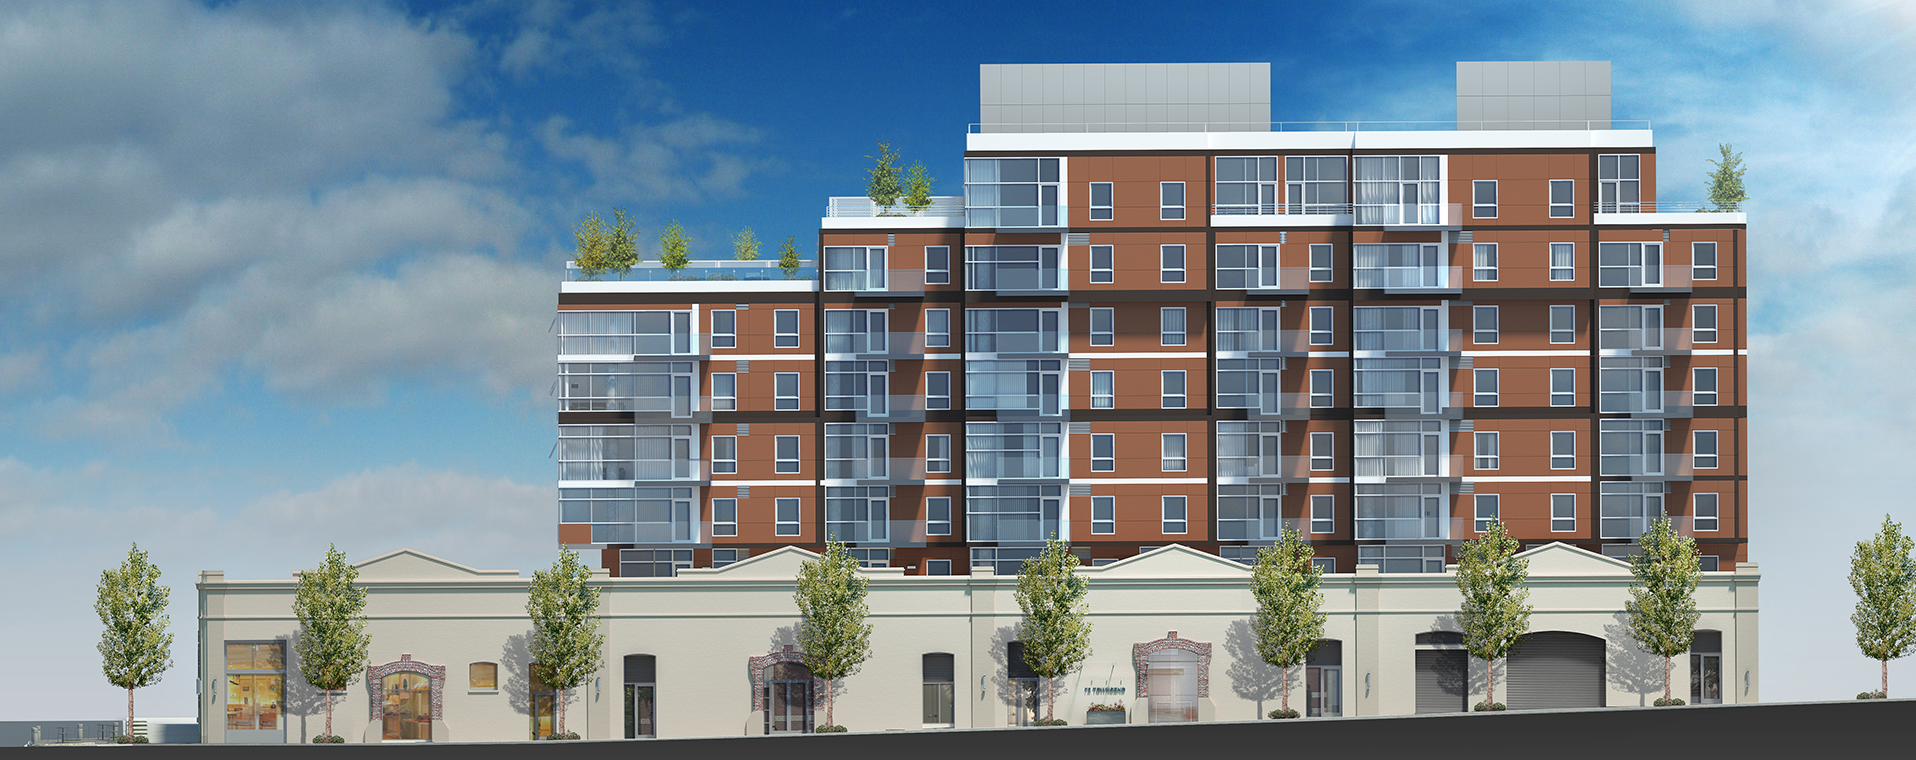
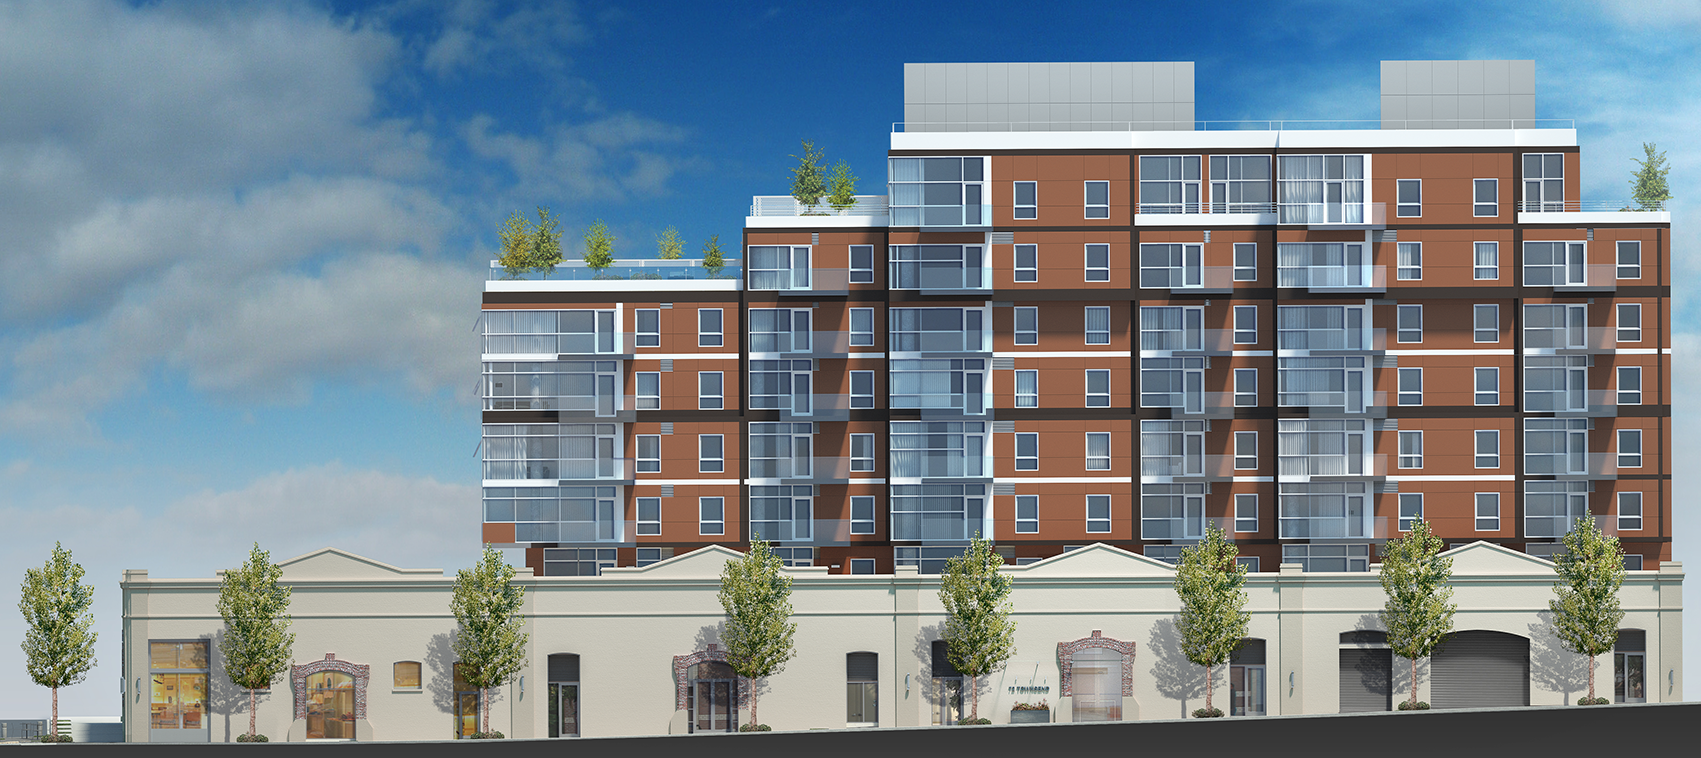
added main building image

diff --git a/app/styles/main.scss b/app/styles/main.scss
@@ -19,13 +19,29 @@ $icon-font-path: "../bower_components/bootstrap-sass-official/assets/fonts/boots
   width: 100%;
 }
 
+/*  Landing Page Styles */
+
+.main-building-image {
+    background: url('../images/72Townsend_EastView.png') no-repeat;
+    -webkit-background-size: contain;
+    -moz-background-size: contain;
+    background-size: contain;
+    -o-background-size: contain;
+    height:3000px;
+}
+
+.landing-wrapper {
+    margin-top:124px;
+    background-color:black;
+}
+
 
 /* End Custom Styles*/
 
 /* Custom Mobile Styles */
 
 /* Extra Small Devices, Phones */
-@media(max-width : 480px) {
+@media (max-width : 480px) {
 
     .navbar-inverse {
       padding: 0px;
@@ -39,19 +55,6 @@ $icon-font-path: "../bower_components/bootstrap-sass-official/assets/fonts/boots
   
 
 }
-
-/* Small devices (tablets, 768px and up) */
-// @media (min-width: @screen-sm-min) { 
-//     .navbar-inverse {
-//       padding: 0px 10px;
-//     }
-// }
-
-/* Medium devices (desktops, 992px and up) */
-// @media (min-width: @screen-md-min) { }
-
-/* Large devices (large desktops, 1200px and up) */
-// @media (min-width: @screen-lg-min) { }
 
 /* End Custom Mobile Styles*/
 

diff --git a/app/views/main.html b/app/views/main.html
@@ -1,4 +1,21 @@
-<div class="jumbotron">
+<!-- desktop landing -->
+<!-- <img src="images/72Townsend_EastView.png" style="width: 134%;margin-top: 107px;margin-left: -72px;" class="hidden-xs"> -->
+
+<div class="landing-wrapper">
+<div class="main-building-image hidden-xs"></div>
+</div>
+  <!-- <div class="opaque-bar text-center hidden-xs">
+        <div style="position:absolute; top: 10%; left:10%">
+              <h3>EXPLORE 72 TOWNSEND</h3>
+                  <button class="btn btn-default bedroom-button">BEDROOMS  <i class="fa fa-chevron-down"></i></button>
+                  <button class="btn btn-default bedroom-button">FLOOR  <i class="fa fa-chevron-down"></i></button>
+        </div>        
+  </div> -->
+<!-- </div> -->
+
+<!-- end desktop landing -->
+
+<!-- <div class="jumbotron">
   <h1>'Allo, 'Allo!</h1>
   <p class="lead">
     <img src="images/yeoman.png" alt="I'm Yeoman"><br>
@@ -20,4 +37,4 @@
 
   <h4>Karma</h4>
   <p>Spectacular Test Runner for JavaScript.</p>
-</div>
+</div> -->

diff --git a/app/index.html b/app/index.html
@@ -74,10 +74,10 @@
       </div>
     </div> -->
 
-    <div class="container">
+<!--     <div class="container"> -->
  <!--    <div ng-view=""></div> -->
     <div ui-view></div>
-    </div>
+ <!--    </div> -->
 
 <!--     <div class="footer"></div> -->
 
